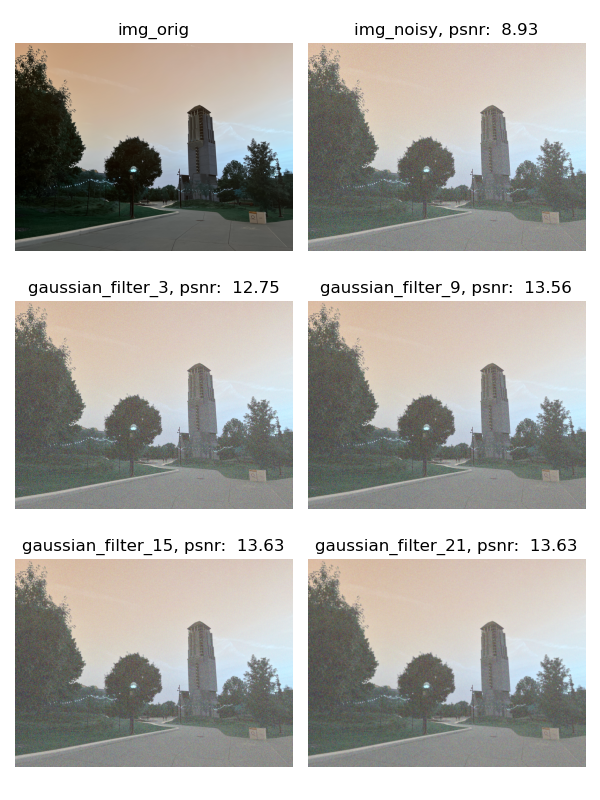
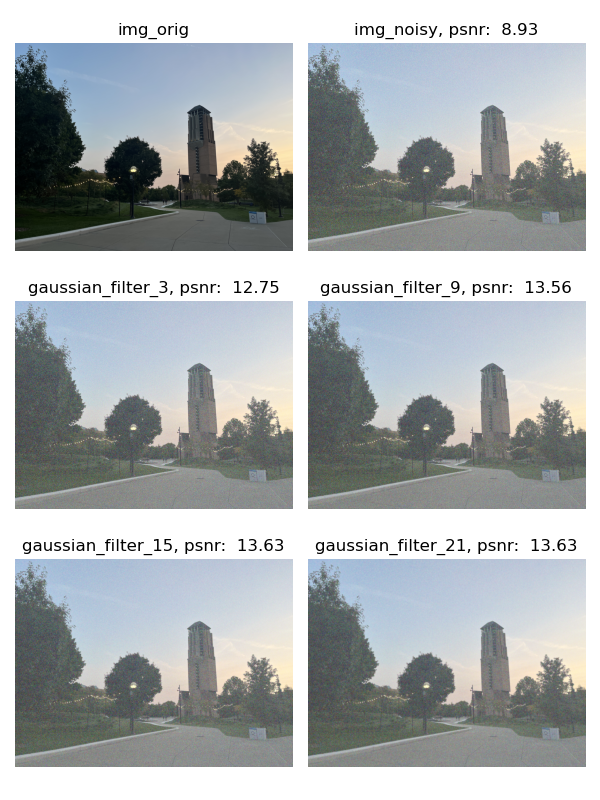
Update 02 codes.

diff --git a/02-image-denoising/image_denoising.py b/02-image-denoising/image_denoising.py
@@ -13,10 +13,11 @@ def get_noisy_image(path, mean=0, sigma=5):
 
 def get_noisy_image_color(path, mean=0, sigma=5):
     img= cv2.imread(path) #BGR
+    img = cv2.cvtColor(img, cv2.COLOR_BGR2RGB)
     #img = cv2.resize(img, (1000, 750))
     row, col, ch = img.shape
-    gauss = np.random.normal(mean, sigma, (row, col, ch))  # 產生高斯噪聲
-    gauss_noise = gauss.reshape(row, col, ch).astype('uint8')  # 將噪聲轉換為 uint8 類型
+    gauss = np.random.normal(mean, sigma, (row, col, ch))
+    gauss_noise = gauss.reshape(row, col, ch).astype('uint8')
     img_noisy = cv2.add(img, gauss_noise)
     return img, img_noisy
 
@@ -52,7 +53,7 @@ def get_mean_filter_results(img_orig, img_noisy):
             'mean_filter_9': mean_filtering_9, 'mean_filter_15': mean_filtering_15, 'mean_filter_21': mean_filtering_21}
     return imgs
 
-def get_gaussian_filter_results(img_orig, img_noisy):
+def get_gaussian_filter_by_size_results(img_orig, img_noisy):
     gaussian_filtering_3 = cv2.GaussianBlur(img_noisy, (3,3), 0)
     gaussian_filtering_9 = cv2.GaussianBlur(img_noisy, (9,9), 0)
     gaussian_filtering_15 = cv2.GaussianBlur(img_noisy, (15,15), 0)
@@ -92,5 +93,5 @@ if __name__ == '__main__':
     plt.show()
 
     visualization(get_mean_filter_results(img_color_orig, img_color_noisy), "mean_filter_results")
-    visualization(get_gaussian_filter_results(img_color_orig, img_color_noisy), "gaussian_filter_results")
+    visualization(get_gaussian_filter_by_size_results(img_color_orig, img_color_noisy), "gaussian_filter_results")
     visualization(get_median_filter_results(img_color_orig, img_color_noisy), "median_filter_results")
